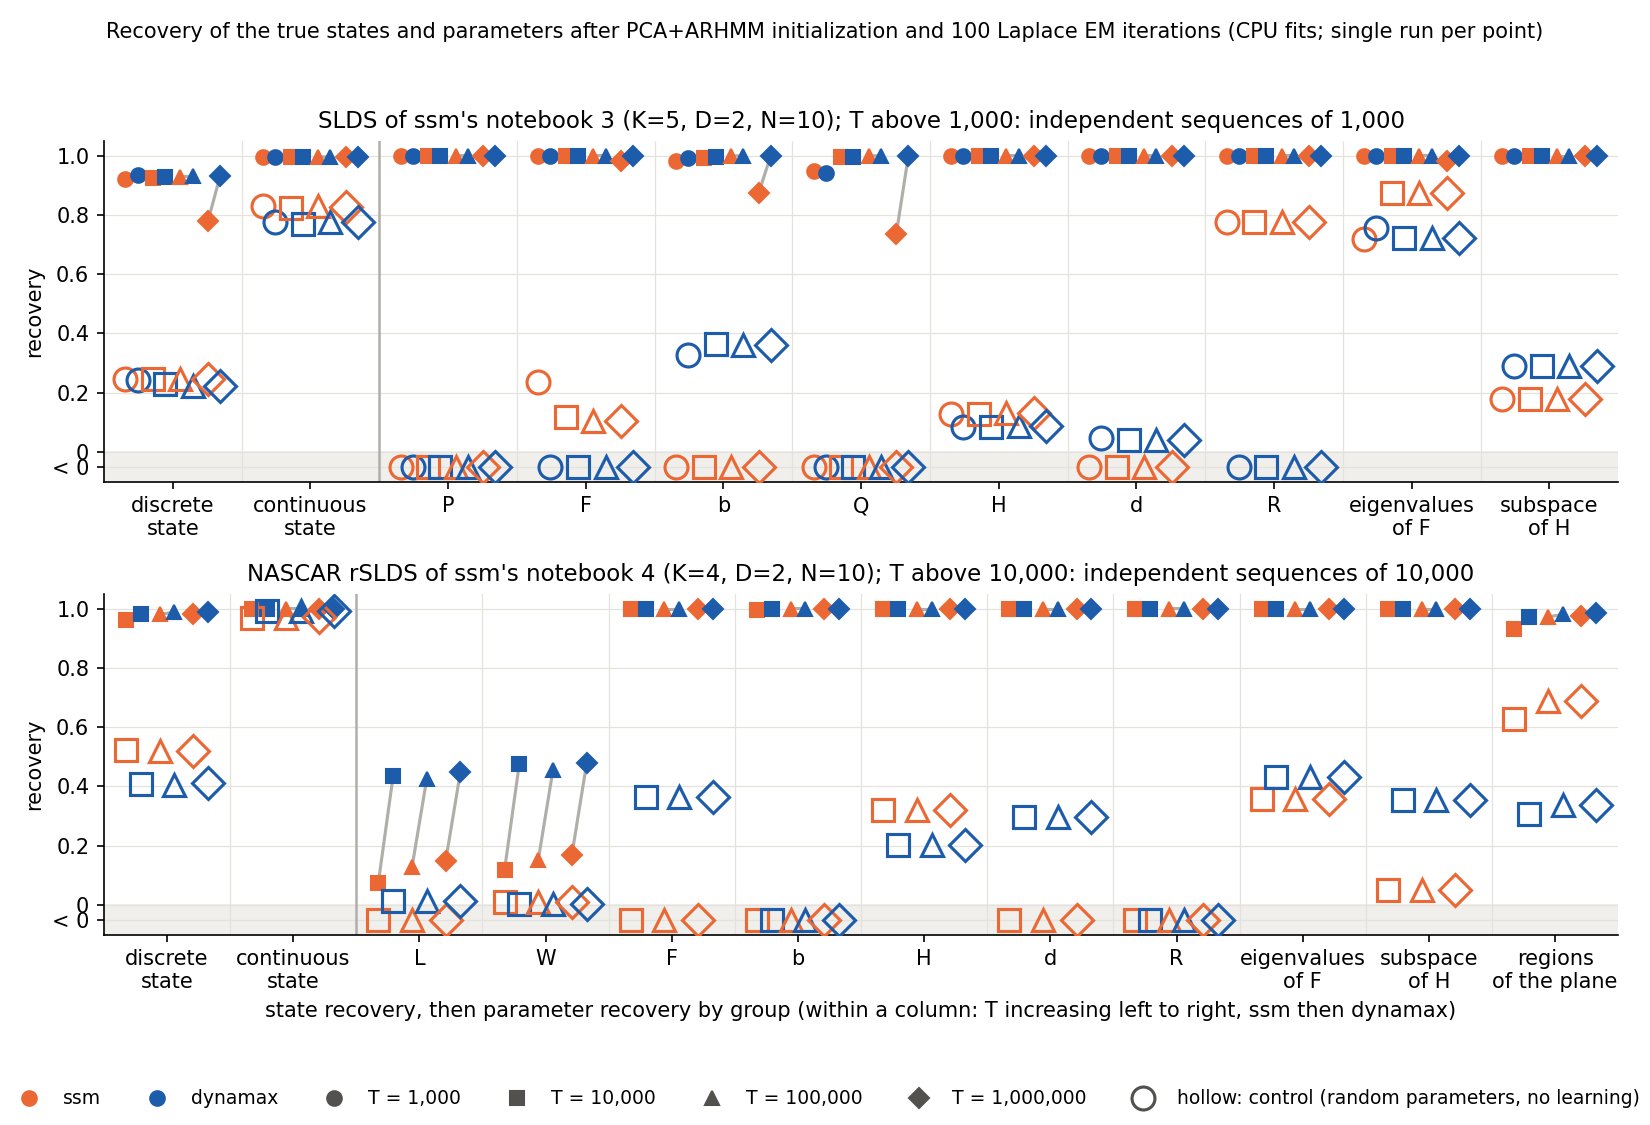
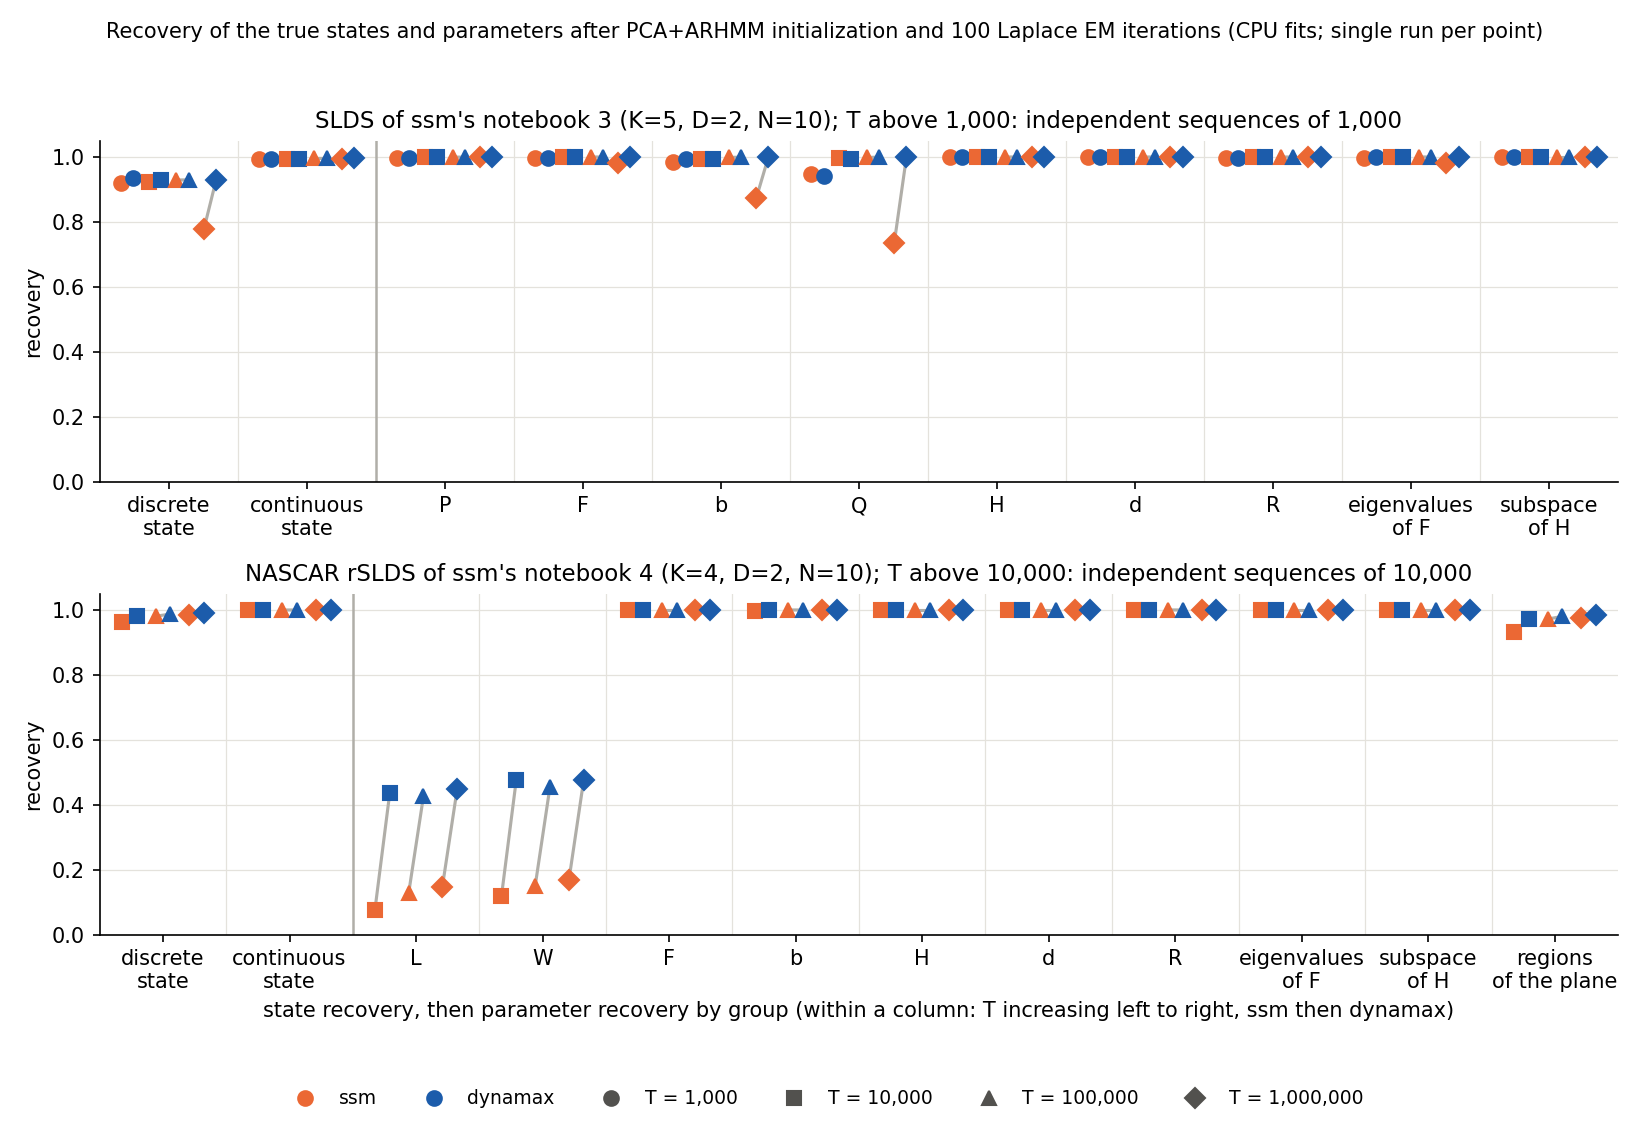
Drop the controls from the benchmark
Problem: Each benchmark run also scored a control: random parameters
and no learning, with the states inferred for them. By now the
control adds little information, and inferring its states slows the
runs substantially, most of all for ssm.

Solution: Remove the control from bench_ssm.py, bench_dynamax.py, and
the recovery plot. The plot's band for scores below 0 goes with it,
since only controls landed there.

diff --git a/benchmarks/slds_vs_ssm/plot.py b/benchmarks/slds_vs_ssm/plot.py
@@ -10,9 +10,8 @@ speed_total.png: total fit time vs timesteps: ssm = initialization + EM iteratio
 (including its compile) + EM iterations (including their compile). The labels are ssm's time over dynamax's.
 recovery.png (CPU fits only): recovery as scored by dynamax/slds/ssm_recovery_test.py: discrete state recovery,
 continuous state recovery, then the parameter recovery scores. Marker = number of timesteps. Within a column each
-number of timesteps has one (ssm, dynamax) pair, joined by a line. Hollow markers are the controls (random
-parameters, no learning). The axis runs from 0 to 1 and every score below 0 is drawn on one line under it. The
-dynamics noise covariance Q is left out of the rSLDS panel.
+number of timesteps has one (ssm, dynamax) pair, joined by a line. The dynamics noise covariance Q is left out of
+the rSLDS panel.
 Usage: python plot.py
 """
 import json
@@ -48,7 +47,6 @@ DATASETS = {"slds": "SLDS of ssm's notebook 3 (K=5, D=2, N=10)",
 TOTAL = {"ssm": "initialization + EM", "dynamax": "initialization + compile + EM",
          "dynamax on GPU": "initialization + compile + EM"}
 SKIP = {"rslds": {"Q"}}
-FLOOR = -0.05                                               # scores below 0 are drawn here
 MARKERS = dict(zip(sorted({r["num_timesteps"] for r in rows}), "os^Dv"))   # marker = number of timesteps
 BATCH_NOTE = {d: f"above {n:,}: independent sequences of {n:,}" for d, n in SEQUENCE_LENGTH.items()}
 
@@ -130,16 +128,12 @@ for ax, (dataset, title) in zip(axes, DATASETS.items()):
                     lw=1.5, zorder=1)
             for library, color in COLORS.items():
                 r = sel[library][i]
-                marker, control = MARKERS[r["num_timesteps"]], r["control"][group]
-                ax.plot([xs[library]], [r["recovery"][group]], marker=marker, ms=7, ls="none", color=color, zorder=3)
-                ax.plot([xs[library]], [control if control >= 0 else FLOOR], marker=marker, ms=11, ls="none",
-                        color=color, mfc="none", mew=1.5, zorder=4)
+                ax.plot([xs[library]], [r["recovery"][group]], marker=MARKERS[r["num_timesteps"]], ms=7, ls="none",
+                        color=color, zorder=3)
     ax.set_xticks(range(len(groups)),
                   [k.replace(" recovery", "").replace("_", " ").replace(" ", "\n", 1) for k in groups])
     ax.set_xlim(-0.5, len(groups) - 0.5)
-    ax.set_ylim(2 * FLOOR, 1.05)
-    ax.set_yticks([FLOOR, 0, 0.2, 0.4, 0.6, 0.8, 1.0], ["< 0", "0", "0.2", "0.4", "0.6", "0.8", "1.0"])
-    ax.axhspan(2 * FLOOR, 0, color="#f0efec", zorder=0)
+    ax.set_ylim(0, 1.05)
     ax.set_title(f"{title}; T {BATCH_NOTE[dataset]}", fontsize=11)
     ax.set_ylabel("recovery")
     ax.grid(True, axis="y", color="#e4e2dc", lw=0.6)
@@ -152,8 +146,6 @@ axes[1].set_xlabel("state recovery, then parameter recovery by group "
 handles = [Line2D([], [], marker="o", ms=7, ls="none", color=color, label=library) for library, color in COLORS.items()]
 handles += [Line2D([], [], marker=marker, ms=7, ls="none", color="#52514e", label=f"T = {T:,}")
             for T, marker in MARKERS.items()]
-handles += [Line2D([], [], marker="o", ms=11, ls="none", color="#52514e", mfc="none", mew=1.5,
-                   label="hollow: control (random parameters, no learning)")]
 fig.legend(handles=handles, loc="lower center", ncol=len(handles), fontsize=9, frameon=False, bbox_to_anchor=(0.5, 0.0))
 fig.suptitle(f"Recovery of the true states and parameters after PCA+ARHMM initialization and {num_iters} Laplace EM "
              f"iterations (CPU fits; single run per point)", fontsize=10)

diff --git a/benchmarks/slds_vs_ssm/bench_ssm.py b/benchmarks/slds_vs_ssm/bench_ssm.py
@@ -4,11 +4,7 @@ Usage: <python with lindermanlab/ssm installed> bench_ssm.py
 Fits every dataset of make_data.py, smallest first, and writes cpu_ssm.jsonl, one JSON line per dataset. ssm runs on
 the CPU in float64. A short fit before the timed ones compiles ssm's numba kernels (about 12 s in a new
 environment), so no timed fit pays for it. Outside the timed region each fit is scored by the recovery test's own
-function, and so is a control: random parameters and no learning, with the states inferred by approximate_posterior
-at its defaults. The control's parameters are those ssm's constructor draws at random, except the transition matrix:
-ssm draws it as 0.95 I plus noise, which is also how the true one was drawn, so each of its rows is drawn from a
-flat Dirichlet instead, as dynamax's prior does. The control's seed differs from the seeds that built the true
-models (0 and 12345), which would reproduce some of the true parameters.
+function.
 """
 import json
 import os
@@ -29,7 +25,6 @@ from make_data import SIZES, path  # noqa: E402
 
 RESULTS = os.path.join(HERE, "cpu_ssm.jsonl")
 NUM_ITERS = 100                                           # the same as in bench_dynamax.py
-CONTROL_SEED = 1
 
 
 def fit(fit_model, datas, num_iters):
@@ -46,28 +41,19 @@ def fit(fit_model, datas, num_iters):
 
 
 def bench(name, num_timesteps, num_iters=NUM_ITERS):
-    """One row of results: the times of one fit, and the recovery scores of the fit and of the control."""
+    """One row of results: the times of one fit and its recovery scores."""
     saved = np.load(path(name, num_timesteps))
     datas = list(saved[f"recovery/{name}/y"])
     _, fit_model = NOTEBOOKS[name][0]()
     init_s, fit_s, model, q = fit(fit_model, datas, num_iters)
 
-    npr.seed(CONTROL_SEED)
-    control = fit_model()
-    if hasattr(control.transitions, "log_Ps"):
-        control.transitions.log_Ps = np.log(npr.dirichlet(np.ones(control.K), size=control.K))
-    _, control_q = control.approximate_posterior(datas, method="laplace_em",
-                                                 variational_posterior="structured_meanfield", verbose=0)
-
     from dynamax.slds.ssm_recovery_test import recovery   # imports jax, so only after the first timed fit
-
-    def score(model, q):
-        x_hat = q.mean_continuous_states
-        z_hat = [model.most_likely_states(x, y) for x, y in zip(x_hat, datas)]
-        return recovery(name, natural_params(model), np.concatenate(x_hat), np.concatenate(z_hat), saved)
+    x_hat = q.mean_continuous_states
+    z_hat = [model.most_likely_states(x, y) for x, y in zip(x_hat, datas)]
+    scores = recovery(name, natural_params(model), np.concatenate(x_hat), np.concatenate(z_hat), saved)
 
     return {"library": "ssm", "dataset": name, "num_timesteps": num_timesteps, "num_iters": num_iters,
-            "init_s": init_s, "fit_s": fit_s, "recovery": score(model, q), "control": score(control, control_q)}
+            "init_s": init_s, "fit_s": fit_s, "recovery": scores}
 
 
 if __name__ == "__main__":

diff --git a/benchmarks/slds_vs_ssm/bench_dynamax.py b/benchmarks/slds_vs_ssm/bench_dynamax.py
@@ -5,8 +5,7 @@ Fits every dataset of make_data.py, smallest first, on the CPU (the default) or 
 cpu_dynamax.jsonl or gpu_dynamax.jsonl, one JSON line per dataset. initialize and fit_em are wrapped in an outer
 jax.jit and compiled ahead of time (jit(...).lower(...).compile(): tracing, lowering and XLA compilation, timed as
 *_compile_s); the executable is then run once (timed as *_s). Outside the timed region each fit is scored by the
-recovery test's own function, and so is a control: parameters drawn from their priors by initialize(method="prior")
-and no learning, with the states inferred by approximate_posterior at its defaults.
+recovery test's own function.
 """
 import argparse
 import json
@@ -41,7 +40,7 @@ def timed(fn):
 
 
 def bench(name, num_timesteps, num_iters=NUM_ITERS):
-    """One row of results: the times of one fit, and the recovery scores of the fit and of the control."""
+    """One row of results: the times of one fit and its recovery scores."""
     saved = np.load(path(name, num_timesteps))
     emissions = jnp.asarray(saved[f"recovery/{name}/y"])
     model = MODELS[name]()
@@ -57,19 +56,15 @@ def bench(name, num_timesteps, num_iters=NUM_ITERS):
                                                    return_posterior=True).compile())
     (fitted, _, posterior), fit_run = timed(lambda: fit_exe(params, props, emissions))
 
-    control, _ = model.initialize(key, method="prior")
-    control_posterior, _ = model.approximate_posterior(control, emissions)
-
-    def score(params, posterior):
-        """Recovery of the sampled states, latents and parameters (Viterbi path with x at the posterior mean)."""
-        z_hat = jax.vmap(lambda y, q: model.most_likely_states(params, y, q))(emissions, posterior)
-        x_hat = np.asarray(posterior.continuous.smoothed_means)
-        return recovery(name, natural_params(params), x_hat.reshape(-1, x_hat.shape[-1]),
-                        np.asarray(z_hat).reshape(-1), saved)
+    # Recovery of the sampled states, latents, and parameters (Viterbi path with x at the posterior mean).
+    z_hat = jax.vmap(lambda y, q: model.most_likely_states(fitted, y, q))(emissions, posterior)
+    x_hat = np.asarray(posterior.continuous.smoothed_means)
+    scores = recovery(name, natural_params(fitted), x_hat.reshape(-1, x_hat.shape[-1]),
+                      np.asarray(z_hat).reshape(-1), saved)
 
     row = {"library": "dynamax", "dataset": name, "num_timesteps": num_timesteps, "num_iters": num_iters,
            "init_compile_s": init_compile, "init_s": init_run, "fit_compile_s": fit_compile, "fit_s": fit_run,
-           "recovery": score(fitted, posterior), "control": score(control, control_posterior)}
+           "recovery": scores}
     if DEVICE == "gpu":
         row["gpu"] = jax.devices()[0].device_kind
     return row
